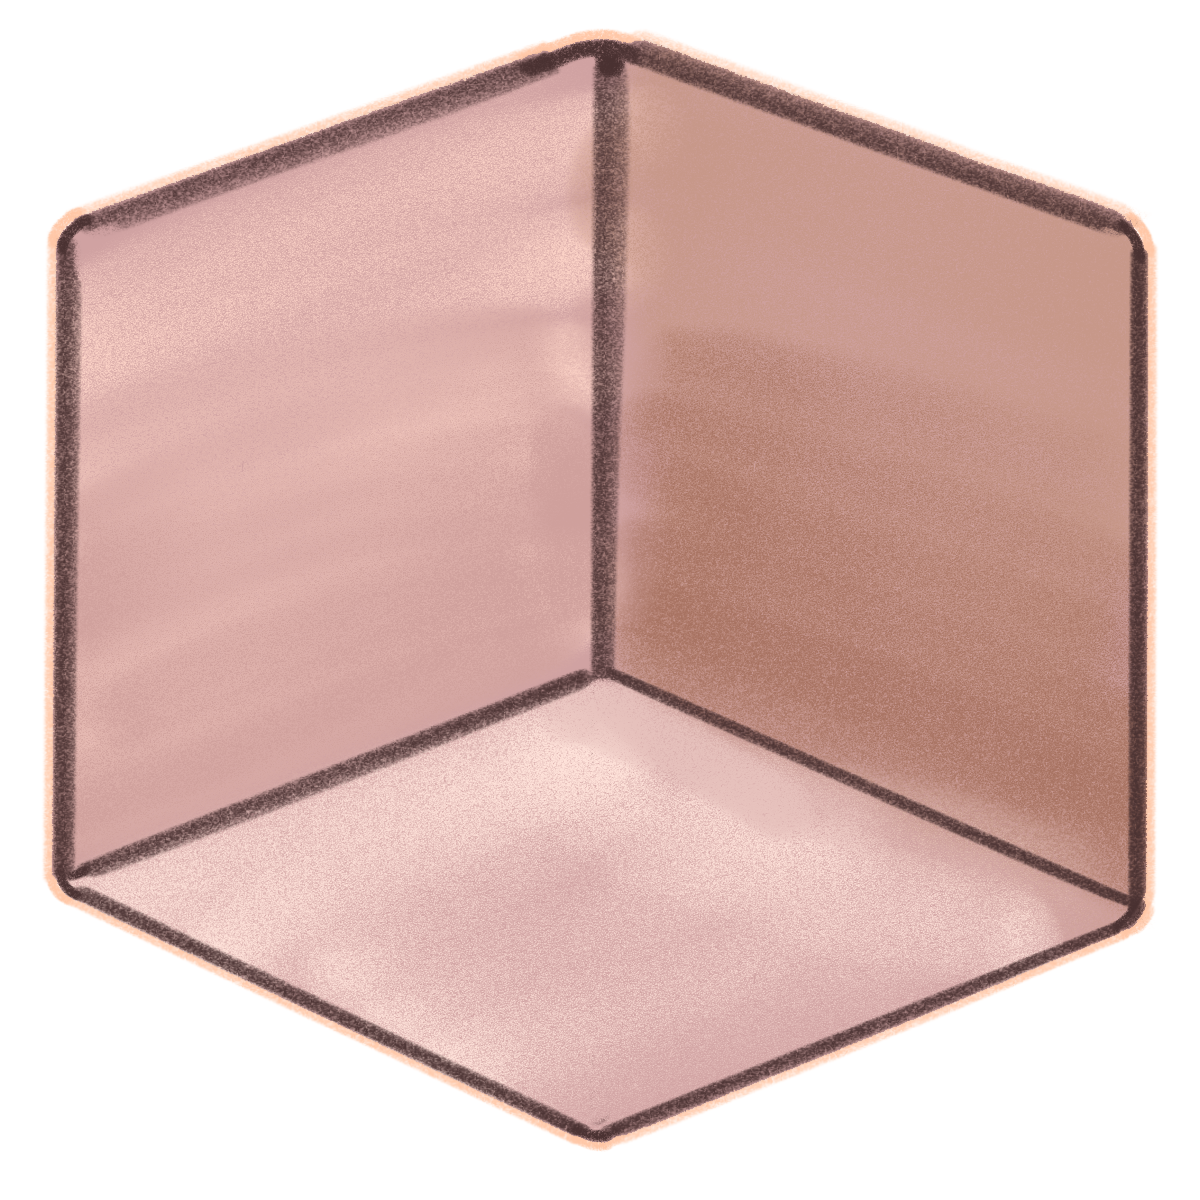
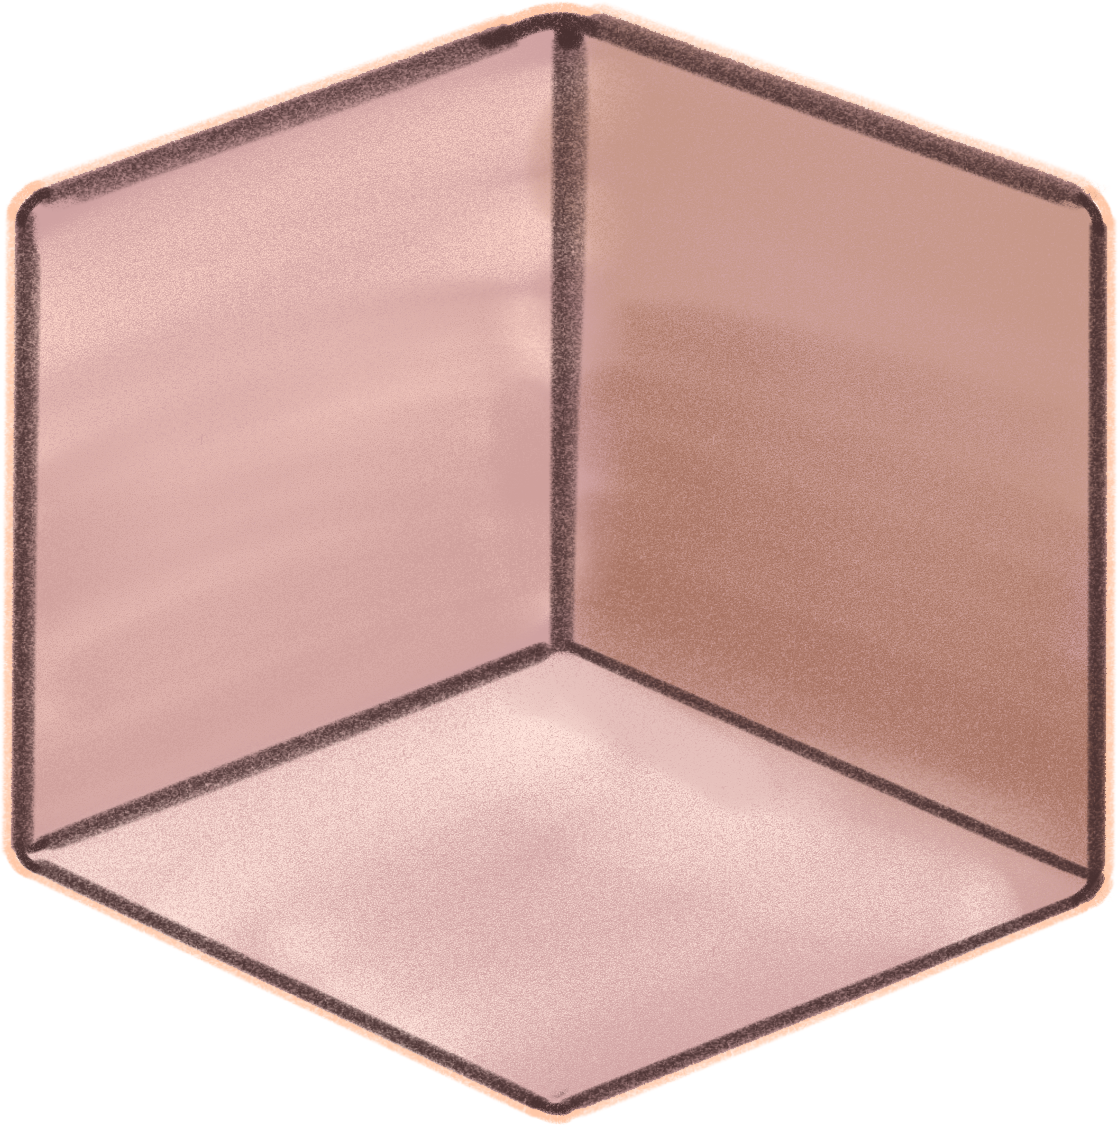
fixed room bounds, added bit of cuttlery

diff --git a/index.html b/index.html
@@ -25,7 +25,7 @@
    <button type="button" onclick="Light()" style="border-color: purple; font-family:'Segoe UI', Tahoma, Geneva, Verdana, sans-serif;  height: 50px; border-radius: 20px;  position:absolute; top: 120px; left: 2000px; background-color: rgb(245, 207, 243); color: rgb(94, 45, 106);">Light mode</button>
 
 <div id="thedrag">
-    <Div class="draggable" id="drag" style="z-index: 0; top: 300px; left: 500px; position: absolute;">
+    <Div class="draggable" id="drag" style="z-index: 0; top: 350px; left: 550px; position: absolute;">
         <img src="IMG/Room background 1.png" alt="Beige room" class="draggable">
     </Div>
 
@@ -171,6 +171,13 @@
     <img src="IMG/cup.png" alt="cup">
     </Div>
 
+    <Div class="draggable" id="drag38" style="z-index: 2; top: 830px; left: 360px; position: absolute;">
+    <img src="IMG/tiny plate.png" alt="Tiny plate2">
+    </Div>
+
+    <Div class="draggable" id="drag39" style="z-index: 3; top: 830px; left: 410px; position: absolute;">
+    <img src="IMG/kettle.png" alt="kettle">
+    </Div>
 
     </div>
 </body>
